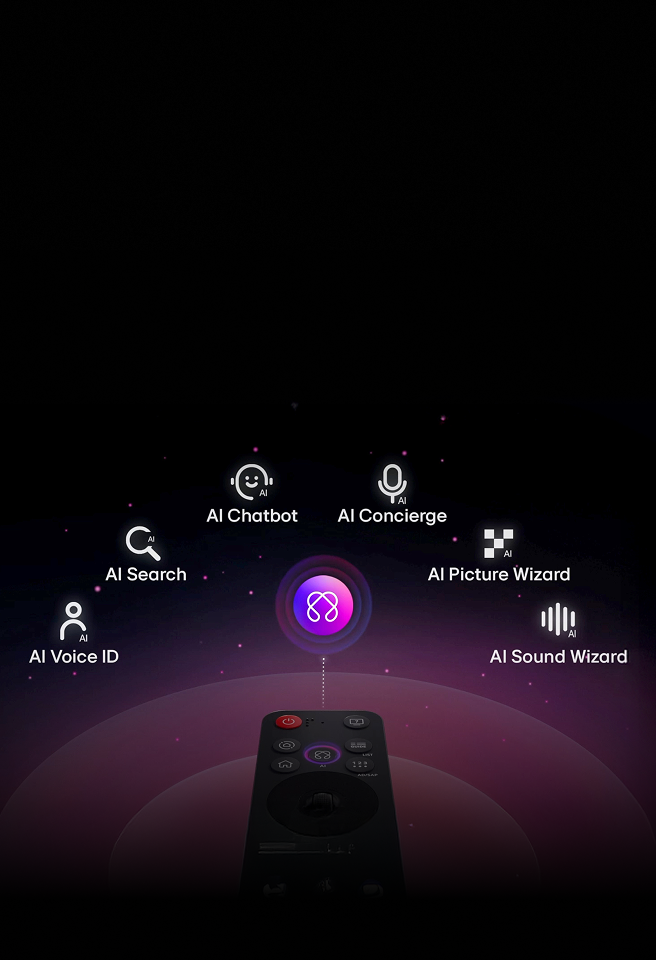
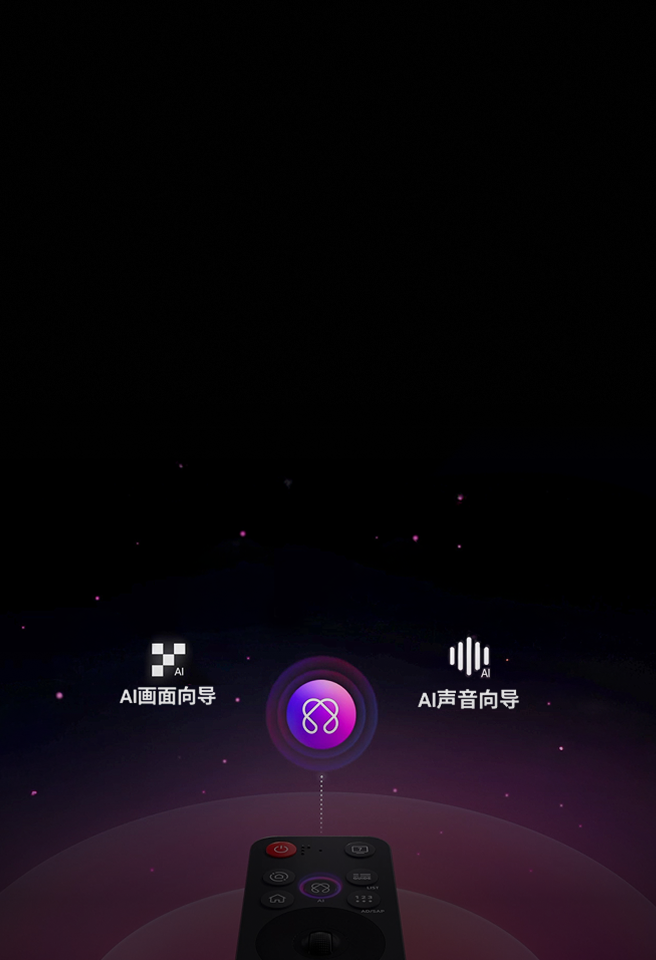
📝 MOD : LG AI(CN)
- 에셋교체
- 스토리섹션 주석해제
- 제품 이미지 변경

Changed region(s): [[0.0, 0.4688, 1.0, 1.0]]

diff --git a/ai-gate/CN/src/index.html b/ai-gate/CN/src/index.html
@@ -184,8 +184,8 @@
                         <img src="./assets/image/ai-gate-image-product-category-tv-banner-mobile.png" alt="在LG动感遥控器上方，显示着诸如个性化画面向导和个性化声音向导等功能。" loading="lazy" data-tp="alt">
                       </picture>
                       <div class="text-bx">
-                        <h3 class="title" data-tp="copy">认识新一代LG <br>
-                          AI电视</h3>
+                        <h3 class="title" data-tp="copy">认识新一代<br>
+                          LG AI电视</h3>
                         <a href="https://www.lg.com/cn/tvs-soundbars/ai-tv" class="white-btn" data-tp="copy link">更多内容</a>
                       </div>
                     </div>
@@ -360,7 +360,7 @@
         </section>
         <!-- E : thinq-section (Local)-->
         <!-- S : stories-section -->
-        <!-- <section class="stories-section">
+        <section class="stories-section">
           <div class="inner">
               <h2 class="title" data-tp="copy">了解更多LG情感智能</h2>
               <div class="slide-bx">
@@ -403,7 +403,7 @@
                   </div>
               </div>
           </div>
-        </section> -->
+        </section>
         <!-- E : stories-section -->
         <!-- S : layer-popup -->
         <!-- <div class="products-layer" role="dialog" aria-hidden="true" aria-modal="true" tabindex="-1">
